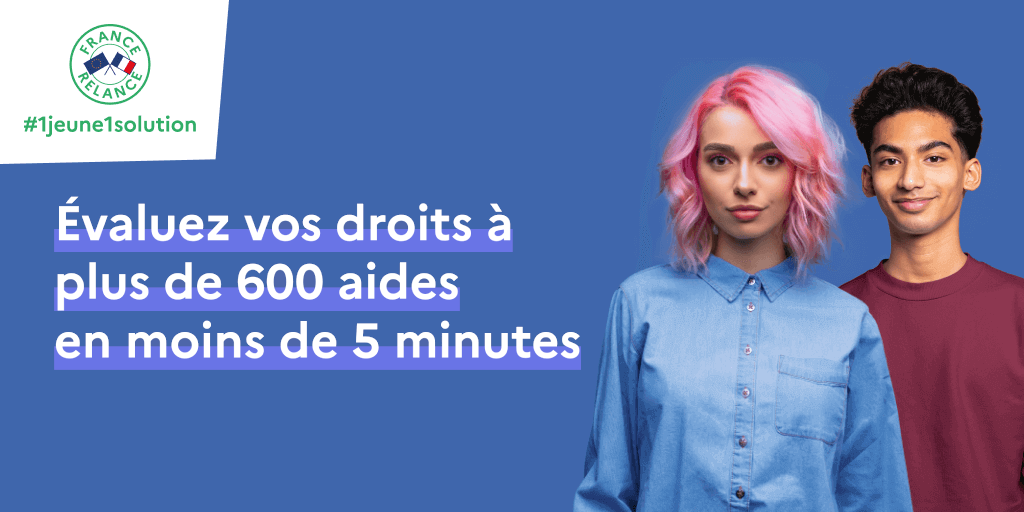
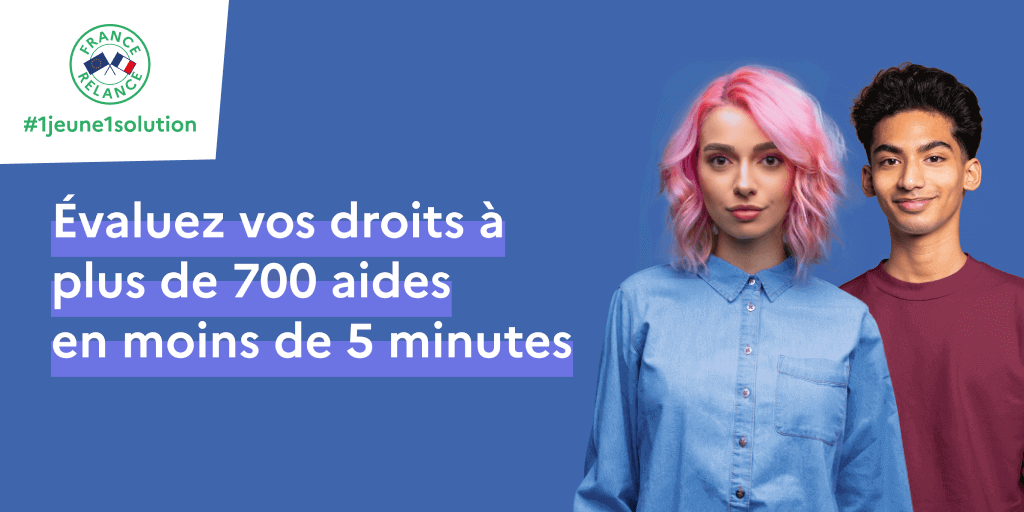
Correctifs post-migration DSFR (#3376)
* chore: typo

* update: image twitter

* update: page mentions légales

* update: ajoute le numéro de téléphone avec tous les chiffres

* update: auto-lint

* fix: correction de la commande d'auto-lint

* chore: corrige les erreurs de lint manuellement

Changed region(s): [[0.0312, 0.375, 0.5938, 0.75]]

diff --git a/src/views/iframe.vue b/src/views/iframe.vue
@@ -15,8 +15,8 @@
     <div class="fr-form-group">
       <fieldset class="fr-fieldset fr-fieldset--inline">
         <legend
-          class="fr-fieldset__legend fr-text--regular"
           id="checkboxes-inline-legend"
+          class="fr-fieldset__legend fr-text--regular"
         >
           Plusieurs options s'offrent à vous pour personnaliser l'affichage du
           simulateur :
@@ -24,10 +24,10 @@
         <div class="fr-fieldset__content">
           <div class="fr-checkbox-group">
             <input
+              id="data-from-home"
+              v-model="options"
               type="checkbox"
               checked="true"
-              v-model="options"
-              id="data-from-home"
               value="data-from-home"
             />
             <label for="data-from-home" class="fr-label"
@@ -36,10 +36,10 @@
           </div>
           <div class="fr-checkbox-group">
             <input
+              id="data-with-logo"
+              v-model="options"
               type="checkbox"
               checked="true"
-              v-model="options"
-              id="data-with-logo"
               value="data-with-logo"
             />
             <label for="data-with-logo" class="fr-label"
@@ -79,19 +79,19 @@ export default {
       return "/documents/iframe-integration.js"
     },
     fullScript() {
-      // eslint-disable-next-line no-useless-escape
+      /* eslint-disable no-useless-escape */
       return `<script src="${process.env.VITE_BASE_URL}${
         this.scriptPath
       }" ${this.options.join(" ")}><\/script>`
     },
   },
-  mounted: function () {
-    this.setIframeContainer()
-  },
   watch: {
     options: function (): void {
       this.setIframeContainer()
     },
+  },
+  mounted: function () {
+    this.setIframeContainer()
   },
   methods: {
     setIframeContainer() {

diff --git a/src/components/summary.vue b/src/components/summary.vue
@@ -2,13 +2,13 @@
   <nav class="fr-sidemenu fr-col-lg-12" aria-label="Sommaire" role="navigation">
     <div class="fr-sidemenu__inner">
       <button
+        ref="sideMenuButton"
         class="fr-sidemenu__btn fr-px-2w"
         aria-controls="fr-sidemenu-wrapper"
         aria-expanded="false"
-        ref="sideMenuButton"
         >Sommaire</button
       >
-      <div class="fr-collapse" id="fr-sidemenu-wrapper">
+      <div id="fr-sidemenu-wrapper" class="fr-collapse">
         <h1
           class="fr-sidemenu__title fr-text--regular fr-hidden fr-unhidden-md fr-pt-5w fr-px-2w"
           >Ma simulation</h1
@@ -21,11 +21,11 @@
           >
             <router-link
               v-if="!disabledLink(chapter, index)"
-              @click="mobileNavigationCollapse()"
               :to="chapter.root"
               tabindex="0"
               class="fr-sidemenu__link fr-px-2w"
               :aria-current="chapter.current ? chapter.current : null"
+              @click="mobileNavigationCollapse()"
               >{{ chapter.label }}</router-link
             >
             <span v-else class="fr-sidemenu__link fr-text--disabled fr-px-2w">{{
@@ -40,10 +40,10 @@
           >
             <li v-if="!isRecapitulatif">
               <router-link
-                @click="mobileNavigationCollapse()"
                 class="fr-btn fr-btn--secondary"
                 :to="{ name: 'recapitulatif' }"
                 data-testid="previous-or-recap-button"
+                @click="mobileNavigationCollapse()"
                 >{{
                   isResultsPage ? "Modifier ma simulation" : "Récapitulatif"
                 }}</router-link

diff --git a/src/views/mentions-legales.vue b/src/views/mentions-legales.vue
@@ -8,7 +8,7 @@
       <ul>
         <li>
           la Délégation générale à l’emploi et à la formation professionnelle
-          (DGEFP) - 10-18 place des 5-Martyrs-du-Lycée-Buffon 75015 Paris et
+          (DGEFP) - 10-18, place des 5-Martyrs-du-Lycée-Buffon - 75015 Paris
         </li>
         <li>
           l'incubateur de services numériques de la Direction interministérielle
@@ -20,18 +20,18 @@
     <h2>Direction de publication</h2>
 
     <p>
-      Le délégué générale à l’emploi et à la formation professionnelle et le
+      Le délégué général à l’emploi et à la formation professionnelle et le
       directeur interministériel du numérique.
     </p>
 
     <h2>Hébergement du site</h2>
 
-    <p>
-      Ce site est hébergé par OVH SAS<br />
-      2 rue Kellermann,<br />
-      59100 Roubaix<br /><br />
-      Téléphone : +339 72 10 10 0
-    </p>
+    <p>Ce site est hébergé par :</p>
+    <address>
+      OVH SAS<br />
+      2, rue Kellermann - 59100 Roubaix - France<br />
+      Téléphone : +33 9 72 10 10 07
+    </address>
 
     <h2>Accessibilité</h2>
 

diff --git a/src/components/modals/recap-email-modal.vue b/src/components/modals/recap-email-modal.vue
@@ -1,8 +1,8 @@
 <template>
   <dialog
+    id="fr-modal-email"
     aria-labelledby="fr-modal-email-title"
     role="dialog"
-    id="fr-modal-email"
     class="fr-modal"
   >
     <div class="fr-container fr-container--fluid fr-container-md">
@@ -12,10 +12,10 @@
             <div class="fr-modal__header">
               <button
                 v-analytics="{ action: 'Fermé bouton', category: 'Email' }"
-                @click="hide"
                 class="fr-btn--close fr-btn"
                 title="Fermer la fenêtre modale"
                 aria-controls="fr-modal-email"
+                @click="hide"
                 >Fermer</button
               >
             </div>
@@ -58,9 +58,9 @@
                   </label>
                   <input
                     id="email"
+                    ref="email"
                     v-model="email"
                     name="email"
-                    ref="email"
                     required
                     :aria-invalid="errorMessage"
                     :aria-describedBy="

diff --git a/src/views/simulation/mutualized-step.vue b/src/views/simulation/mutualized-step.vue
@@ -59,8 +59,8 @@
                 <input
                   v-else-if="questionType === 'text'"
                   :id="fieldName"
-                  aria-labelledby="step-question"
                   v-model="value"
+                  aria-labelledby="step-question"
                   :data-testid="fieldName"
                   type="text"
                   class="fr-input"
@@ -85,7 +85,6 @@ import MutualizedStepTitle from "@/components/mutualized-step-title.vue"
 import Hint from "@/lib/hint"
 
 import { executeFunctionOrReturnValue } from "@lib/utils"
-import Individu from "@lib/individu"
 import InputNumber from "@/components/input-number.vue"
 import InputDate from "@/components/input-date.vue"
 import { ENTITIES_PROPERTIES } from "@lib/mutualized-steps"

diff --git a/src/components/ressource/montants.vue b/src/components/ressource/montants.vue
@@ -7,9 +7,9 @@
     </legend>
     <div class="fr-fieldset__content">
       <YesNoQuestion
+        :id="`${type.meta.id}_question`"
         v-model="singleValue"
         html-heading="h2"
-        :id="`${type.meta.id}_question`"
       >
         <span
           v-html="
@@ -30,8 +30,8 @@
           <div class="fr-grid-row">
             <div class="fr-col-12 fr-col-sm-6 fr-col-lg-4">
               <InputNumber
-                :value="type.amounts[store.dates.thisMonth.id]"
                 :id="`${type.meta.id}_monthly`"
+                :value="type.amounts[store.dates.thisMonth.id]"
                 @update:model-value="
                   $emit('update', 'singleValue', index, $event)
                 "

diff --git a/src/components/titre-chapitre.vue b/src/components/titre-chapitre.vue
@@ -24,14 +24,13 @@
 
 <script>
 import Chapters from "@lib/chapters"
-import MenuButton from "@/components/buttons/menu-button.vue"
 import SendRecapEmailButton from "@/components/buttons/send-recap-email-button.vue"
 import { useStore } from "@/stores"
 import ResultatsMixin from "@/mixins/resultats"
 
 export default {
   name: "TitreChapitre",
-  components: { SendRecapEmailButton, MenuButton },
+  components: { SendRecapEmailButton },
   mixins: [ResultatsMixin],
   setup() {
     return {
@@ -41,9 +40,6 @@ export default {
   computed: {
     title() {
       return this.getTitleByRoute(this.$route)
-    },
-    showMenuButton() {
-      return this.$route.name !== "recapitulatif"
     },
   },
   methods: {

diff --git a/src/components/header-1j1s.vue b/src/components/header-1j1s.vue
@@ -13,11 +13,11 @@
               <div class="fr-header__navbar">
                 <button
                   v-if="!attributes?.collapse || $route.name !== 'home'"
+                  id="button-500"
                   class="fr-btn--menu fr-btn"
                   data-fr-opened="false"
                   aria-controls="modal-499"
                   aria-haspopup="menu"
-                  id="button-500"
                   title="Menu"
                 >
                   Menu
@@ -47,8 +47,8 @@
       </div>
     </div>
     <div
-      class="fr-header__menu fr-modal"
       id="modal-499"
+      class="fr-header__menu fr-modal"
       aria-labelledby="button-500"
     >
       <div class="fr-container">

diff --git a/src/views/home.vue b/src/views/home.vue
@@ -31,7 +31,7 @@
         </li>
         <li>
           <button
-            v-if="this.hasExistingSituation"
+            v-if="hasExistingSituation"
             v-analytics="{ action: ctaLabel, category: 'Home' }"
             class="fr-btn fr-btn--secondary"
             data-testid="new-simulation"
@@ -44,8 +44,8 @@
             v-analytics="{ action: ctaLabel, category: 'Home' }"
             class="fr-btn"
             data-testid="new-simulation"
-            @click="newSituation()"
             to="/simulation/individu/demandeur/date_naissance"
+            @click="newSituation()"
           >
             {{ ctaLabel }}
           </router-link>

diff --git a/src/components/input-date.vue b/src/components/input-date.vue
@@ -6,10 +6,10 @@
           <span class="fr-hint-text fr-mb-1v">jour</span>
           <input
             :id="firstId"
-            class="fr-input"
             ref="day"
             v-model="day"
             v-select-on-click
+            class="fr-input"
             :data-testid="firstId"
             aria-label="Jour"
             autofocus
@@ -28,9 +28,9 @@
           <input
             id="month-input"
             ref="month"
-            class="fr-input"
             v-model="month"
             v-select-on-click
+            class="fr-input"
             aria-label="Mois"
             data-type="number"
             inputmode="numeric"

diff --git a/src/components/yes-no-question.vue b/src/components/yes-no-question.vue
@@ -25,8 +25,8 @@
               "
             />
             <label
-              :for="`yes-${uniqueFieldName}`"
               :id="`label-yes-${uniqueFieldName}`"
+              :for="`yes-${uniqueFieldName}`"
               class="fr-label"
             >
               Oui
@@ -42,8 +42,8 @@
               :aria-labelledby="id ? `${id} label-no-${uniqueFieldName}` : null"
             />
             <label
-              :for="`no-${uniqueFieldName}`"
               :id="`label-no-${uniqueFieldName}`"
+              :for="`no-${uniqueFieldName}`"
               class="fr-label"
             >
               Non

diff --git a/src/views/liste-aides.vue b/src/views/liste-aides.vue
@@ -12,8 +12,8 @@
           </div>
           <div class="fr-col-12 fr-col-md-6 fr-col-lg-4">
             <input
-              v-model="zipCode"
               id="cp-input"
+              v-model="zipCode"
               type="text"
               class="fr-input"
               @keyup.enter="computeDataSelected"
@@ -140,7 +140,7 @@ export default {
         this.selectedCommune = null
       }
     },
-    countFilteredBenefits(): Number {
+    countFilteredBenefits(): number {
       return Object.keys(this.institutionsGroups).reduce((acc, type) => {
         return (
           acc +
